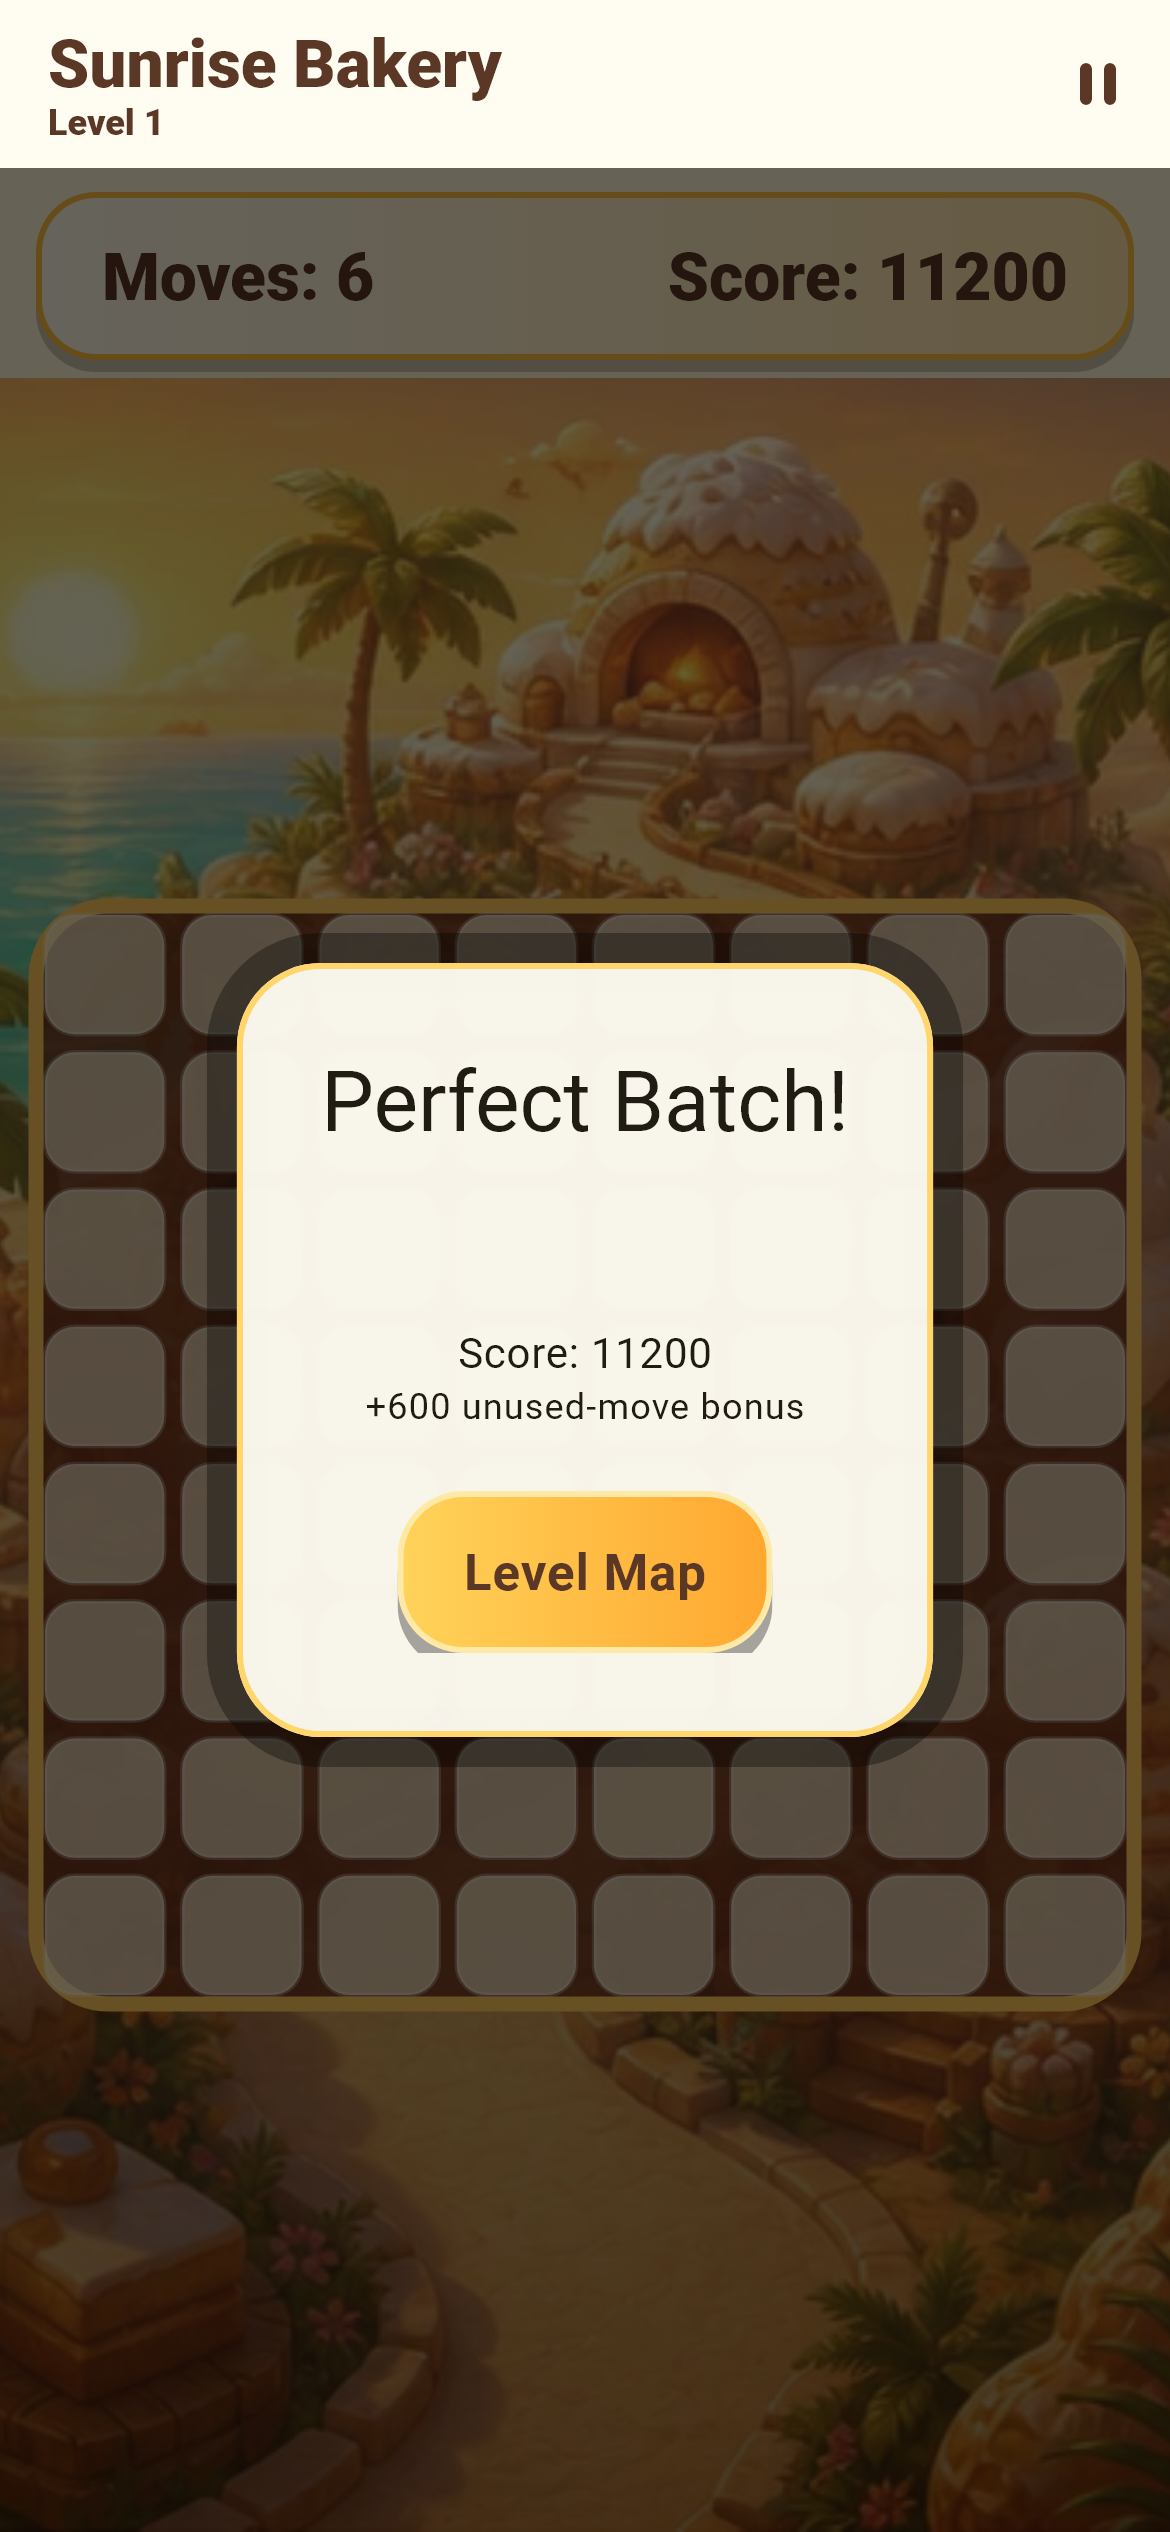
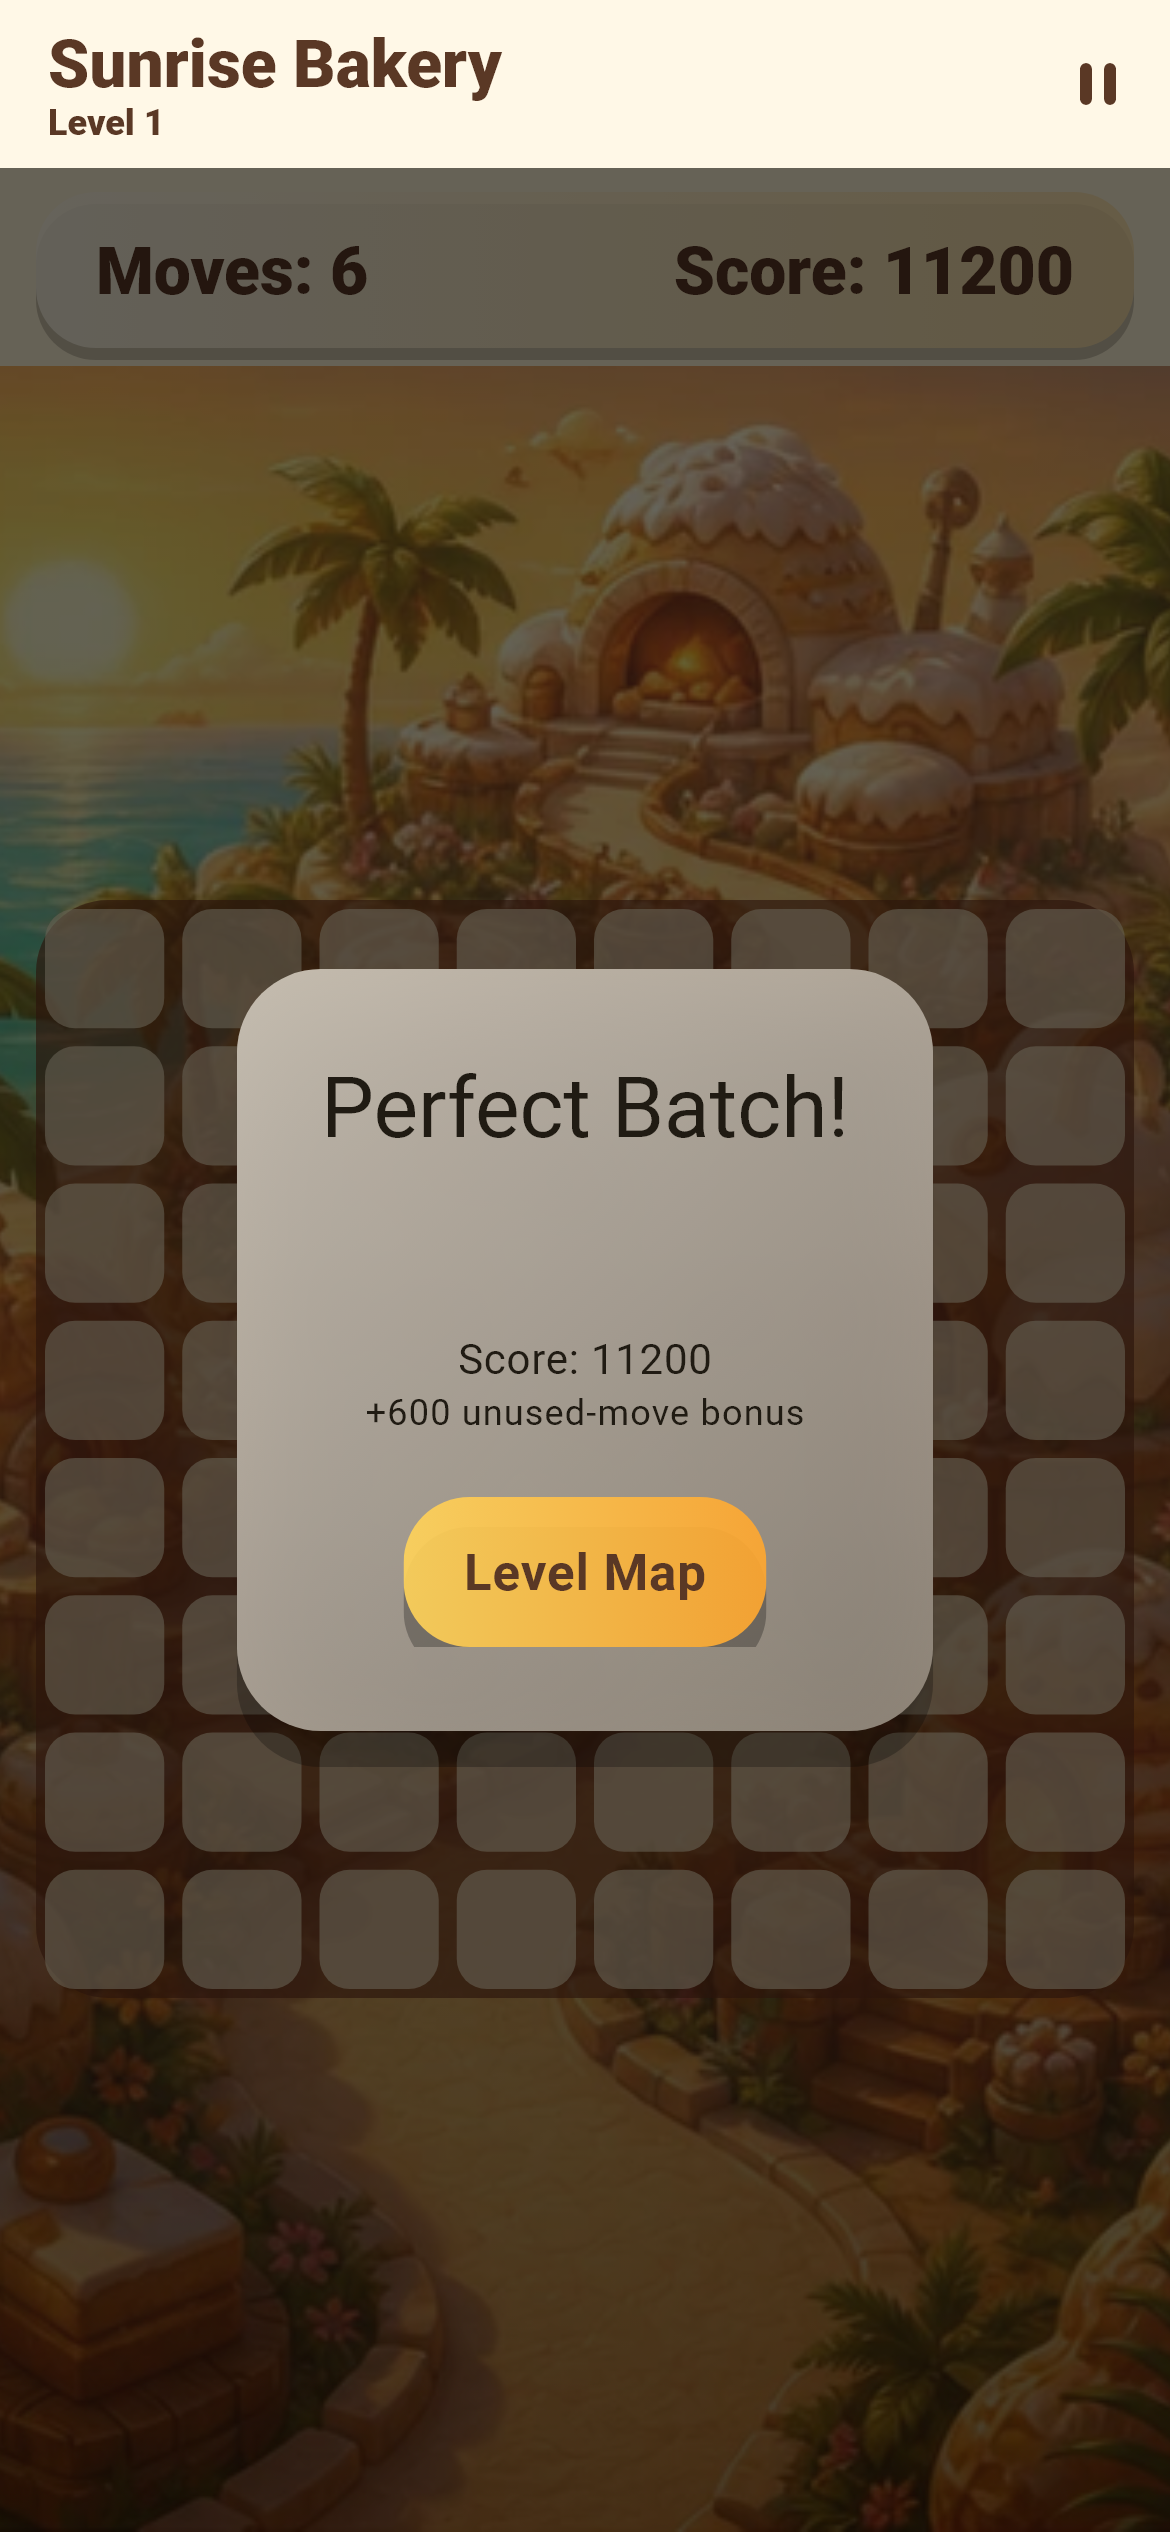
Apply borderless glassmorphism game design

diff --git a/lib/features/gameplay/presentation/gameplay_screen.dart b/lib/features/gameplay/presentation/gameplay_screen.dart
@@ -7,6 +7,7 @@ import '../../../game/domain/level_session.dart';
 import '../../../game/domain/content.dart';
 import '../../../game/presentation/island_match_game.dart';
 import '../../../core/widgets/game_primary_button.dart';
+import '../../../core/widgets/glass_panel.dart';
 import '../../../services/content/bundled_level_repository.dart';
 import '../../../services/content/world_presentation_catalog.dart';
 import '../../../services/audio/game_audio_service.dart';
@@ -230,8 +231,8 @@ class _CascadeBanner extends StatelessWidget {
         duration: const Duration(milliseconds: 220),
         builder: (context, value, child) =>
             Transform.scale(scale: value, child: child),
-        child: Card(
-          color: Theme.of(context).colorScheme.tertiaryContainer,
+        child: GlassPanel(
+          tint: Theme.of(context).colorScheme.tertiaryContainer,
           child: Padding(
             padding: const EdgeInsets.symmetric(horizontal: 22, vertical: 12),
             child: Text(message, style: Theme.of(context).textTheme.titleLarge),
@@ -265,7 +266,7 @@ class _VictoryOverlay extends StatelessWidget {
     return ColoredBox(
       color: const Color(0x99000000),
       child: Center(
-        child: Card(
+        child: GlassPanel(
           child: Padding(
             padding: const EdgeInsets.all(28),
             child: Column(
@@ -323,8 +324,8 @@ class _TutorialBanner extends StatelessWidget {
     right: 20,
     bottom: 18,
     child: IgnorePointer(
-      child: Card(
-        color: Theme.of(context).colorScheme.primaryContainer,
+      child: GlassPanel(
+        tint: Theme.of(context).colorScheme.primaryContainer,
         child: Padding(
           padding: const EdgeInsets.all(14),
           child: Row(
@@ -351,10 +352,9 @@ class _GameHud extends StatelessWidget {
     padding: const EdgeInsets.symmetric(horizontal: 20, vertical: 12),
     decoration: BoxDecoration(
       gradient: const LinearGradient(
-        colors: [Color(0xFFFFF8E6), Color(0xFFFFE2A6)],
+        colors: [Color(0xD9FFF8E6), Color(0xCFFFE2A6)],
       ),
       borderRadius: BorderRadius.circular(20),
-      border: Border.all(color: const Color(0xFFFFBE3F), width: 2),
       boxShadow: const [
         BoxShadow(
           color: Color(0x33000000),
@@ -403,7 +403,7 @@ class _StatusOverlay extends StatelessWidget {
   Widget build(BuildContext context) => ColoredBox(
     color: const Color(0x99000000),
     child: Center(
-      child: Card(
+      child: GlassPanel(
         child: Padding(
           padding: const EdgeInsets.all(28),
           child: Column(

diff --git a/lib/features/home/presentation/home_screen.dart b/lib/features/home/presentation/home_screen.dart
@@ -4,6 +4,7 @@ import 'package:go_router/go_router.dart';
 
 import '../../../core/theme/app_colors.dart';
 import '../../../core/widgets/game_primary_button.dart';
+import '../../../core/widgets/glass_panel.dart';
 import '../../../services/content/world_presentation_catalog.dart';
 
 class HomeScreen extends StatelessWidget {
@@ -45,19 +46,10 @@ class HomeScreen extends StatelessWidget {
                   alignment: const Alignment(0, .28),
                   child: Padding(
                     padding: const EdgeInsets.all(24),
-                    child: Container(
+                    child: GlassPanel(
                       padding: const EdgeInsets.fromLTRB(24, 28, 24, 26),
-                      decoration: BoxDecoration(
-                        color: const Color(0xB33A1C12),
-                        borderRadius: BorderRadius.circular(32),
-                        border: Border.all(
-                          color: const Color(0x99FFE49A),
-                          width: 2,
-                        ),
-                        boxShadow: const [
-                          BoxShadow(color: Colors.black38, blurRadius: 24),
-                        ],
-                      ),
+                      radius: 32,
+                      tint: const Color(0xCC3A1C12),
                       child: Column(
                         mainAxisSize: MainAxisSize.min,
                         children: [
@@ -144,7 +136,6 @@ class _BakeryMark extends StatelessWidget {
         decoration: BoxDecoration(
           color: AppColors.coconut.withValues(alpha: .94),
           shape: BoxShape.circle,
-          border: Border.all(color: AppColors.gold, width: 5),
           boxShadow: const [
             BoxShadow(
               color: Color(0x42000000),

diff --git a/lib/features/level_map/presentation/level_map_screen.dart b/lib/features/level_map/presentation/level_map_screen.dart
@@ -224,10 +224,9 @@ class _WorldRibbon extends StatelessWidget {
     padding: const EdgeInsets.symmetric(horizontal: 20, vertical: 12),
     decoration: BoxDecoration(
       gradient: const LinearGradient(
-        colors: [AppColors.coral, AppColors.caramel],
+        colors: [Color(0xE8F06B55), Color(0xE8D9822B)],
       ),
       borderRadius: BorderRadius.circular(22),
-      border: Border.all(color: const Color(0xFFFFE7A6), width: 3),
       boxShadow: const [BoxShadow(color: Colors.black38, blurRadius: 12)],
     ),
     child: Row(
@@ -289,16 +288,12 @@ class _LevelNode extends StatelessWidget {
               gradient: unlocked
                   ? LinearGradient(
                       colors: current
-                          ? const [Color(0xFFFF745C), Color(0xFFFFA83D)]
-                          : const [Color(0xFFFFD65B), Color(0xFFFFA832)],
+                          ? const [Color(0xE8FF745C), Color(0xE8FFA83D)]
+                          : const [Color(0xD9FFD65B), Color(0xD9FFA832)],
                     )
                   : const LinearGradient(
-                      colors: [Color(0xFF9E948B), Color(0xFF756B64)],
+                      colors: [Color(0xC99E948B), Color(0xC9756B64)],
                     ),
-              border: Border.all(
-                color: current ? Colors.white : const Color(0xFFFFEDB2),
-                width: current ? 4 : 3,
-              ),
               boxShadow: const [
                 BoxShadow(
                   color: Color(0x66000000),

diff --git a/lib/core/widgets/glass_panel.dart b/lib/core/widgets/glass_panel.dart
@@ -1,0 +1,55 @@
+import 'dart:ui';
+
+import 'package:flutter/material.dart';
+
+class GlassPanel extends StatelessWidget {
+  const GlassPanel({
+    super.key,
+    required this.child,
+    this.margin,
+    this.padding,
+    this.radius = 28,
+    this.tint = const Color(0xB8FFF9ED),
+  });
+
+  final Widget child;
+  final EdgeInsetsGeometry? margin;
+  final EdgeInsetsGeometry? padding;
+  final double radius;
+  final Color tint;
+
+  @override
+  Widget build(BuildContext context) => Container(
+    margin: margin,
+    decoration: BoxDecoration(
+      borderRadius: BorderRadius.circular(radius),
+      boxShadow: const [
+        BoxShadow(
+          color: Color(0x40000000),
+          blurRadius: 24,
+          offset: Offset(0, 12),
+        ),
+      ],
+    ),
+    child: ClipRRect(
+      borderRadius: BorderRadius.circular(radius),
+      child: BackdropFilter(
+        filter: ImageFilter.blur(sigmaX: 18, sigmaY: 18),
+        child: Container(
+          padding: padding,
+          decoration: BoxDecoration(
+            gradient: LinearGradient(
+              begin: Alignment.topLeft,
+              end: Alignment.bottomRight,
+              colors: [
+                tint.withValues(alpha: .68),
+                tint.withValues(alpha: .40),
+              ],
+            ),
+          ),
+          child: child,
+        ),
+      ),
+    ),
+  );
+}

diff --git a/lib/core/theme/app_theme.dart b/lib/core/theme/app_theme.dart
@@ -19,7 +19,7 @@ abstract final class AppTheme {
       useMaterial3: true,
       appBarTheme: const AppBarTheme(
         centerTitle: false,
-        backgroundColor: AppColors.coconut,
+        backgroundColor: Color(0xB8FFF9ED),
         foregroundColor: AppColors.cocoa,
         elevation: 0,
         titleTextStyle: TextStyle(
@@ -30,16 +30,13 @@ abstract final class AppTheme {
         ),
       ),
       cardTheme: CardThemeData(
-        color: AppColors.coconut.withValues(alpha: .96),
-        elevation: 10,
+        color: AppColors.coconut.withValues(alpha: .72),
+        elevation: 0,
         shadowColor: const Color(0x55000000),
-        shape: RoundedRectangleBorder(
-          borderRadius: BorderRadius.circular(28),
-          side: const BorderSide(color: Color(0xFFFFD66B), width: 2),
-        ),
+        shape: RoundedRectangleBorder(borderRadius: BorderRadius.circular(28)),
       ),
       dialogTheme: DialogThemeData(
-        backgroundColor: AppColors.coconut,
+        backgroundColor: const Color(0xE6FFF9ED),
         elevation: 16,
         shape: RoundedRectangleBorder(borderRadius: BorderRadius.circular(28)),
       ),

diff --git a/lib/features/level_map/presentation/pre_level_screen.dart b/lib/features/level_map/presentation/pre_level_screen.dart
@@ -4,6 +4,7 @@ import 'package:go_router/go_router.dart';
 import '../../../game/domain/content.dart';
 import '../../../core/theme/app_colors.dart';
 import '../../../core/widgets/game_primary_button.dart';
+import '../../../core/widgets/glass_panel.dart';
 import '../../../services/content/bundled_level_repository.dart';
 import '../../../services/content/world_presentation_catalog.dart';
 
@@ -47,7 +48,7 @@ class PreLevelScreen extends StatelessWidget {
                     ),
                   ),
                   Center(
-                    child: Card(
+                    child: GlassPanel(
                       margin: const EdgeInsets.all(22),
                       child: Padding(
                         padding: const EdgeInsets.fromLTRB(24, 24, 24, 26),
@@ -166,7 +167,7 @@ class _InfoPill extends StatelessWidget {
     decoration: BoxDecoration(
       color: const Color(0xFFFFE5A6),
       borderRadius: BorderRadius.circular(99),
-      border: Border.all(color: const Color(0xFFFFC34E)),
+      boxShadow: const [BoxShadow(color: Color(0x22000000), blurRadius: 10)],
     ),
     child: Row(
       mainAxisSize: MainAxisSize.min,

diff --git a/lib/game/presentation/board_component.dart b/lib/game/presentation/board_component.dart
@@ -41,28 +41,14 @@ class BoardComponent extends PositionComponent
       Rect.fromLTWH(0, 0, size.x, size.y),
       const Radius.circular(24),
     );
-    canvas.drawRRect(tray, Paint()..color = const Color(0xD66B321B));
-    canvas.drawRRect(
-      tray,
-      Paint()
-        ..color = const Color(0xFFFFC85A)
-        ..style = PaintingStyle.stroke
-        ..strokeWidth = 5,
-    );
+    canvas.drawRRect(tray, Paint()..color = const Color(0xA66B321B));
     for (var row = 0; row < _board.rows; row++) {
       for (var column = 0; column < _board.columns; column++) {
         final rect = RRect.fromRectAndRadius(
           Rect.fromLTWH(column * cell + 3, row * cell + 3, cell - 6, cell - 6),
           Radius.circular(cell * .22),
         );
-        canvas.drawRRect(rect, Paint()..color = const Color(0xB8FFF2D0));
-        canvas.drawRRect(
-          rect,
-          Paint()
-            ..color = const Color(0x44FFFFFF)
-            ..style = PaintingStyle.stroke
-            ..strokeWidth = 1.5,
-        );
+        canvas.drawRRect(rect, Paint()..color = const Color(0x99FFF2D0));
       }
     }
   }

diff --git a/lib/features/settings/presentation/settings_screen.dart b/lib/features/settings/presentation/settings_screen.dart
@@ -1,6 +1,7 @@
 import 'package:flutter/material.dart';
 import 'package:flutter_riverpod/flutter_riverpod.dart';
 
+import '../../../core/widgets/glass_panel.dart';
 import '../../progress/application/progress_controller.dart';
 
 class SettingsScreen extends ConsumerWidget {
@@ -17,7 +18,7 @@ class SettingsScreen extends ConsumerWidget {
         children: [
           Text('Experience', style: Theme.of(context).textTheme.titleLarge),
           const SizedBox(height: 10),
-          Card(
+          GlassPanel(
             margin: EdgeInsets.zero,
             child: Column(
               children: [
@@ -63,7 +64,7 @@ class SettingsScreen extends ConsumerWidget {
           const SizedBox(height: 24),
           Text('Save data', style: Theme.of(context).textTheme.titleLarge),
           const SizedBox(height: 10),
-          Card(
+          GlassPanel(
             margin: EdgeInsets.zero,
             child: ListTile(
               contentPadding: const EdgeInsets.symmetric(

diff --git a/lib/core/widgets/game_primary_button.dart b/lib/core/widgets/game_primary_button.dart
@@ -36,15 +36,14 @@ class GamePrimaryButton extends StatelessWidget {
             ),
             decoration: BoxDecoration(
               gradient: const LinearGradient(
-                colors: [Color(0xFFFFD35A), Color(0xFFFFA72F)],
+                colors: [Color(0xE8FFD35A), Color(0xE8FFA72F)],
               ),
               borderRadius: BorderRadius.circular(22),
-              border: Border.all(color: const Color(0xFFFFE9A6), width: 2),
               boxShadow: const [
                 BoxShadow(
-                  color: Color(0x55000000),
-                  blurRadius: 12,
-                  offset: Offset(0, 6),
+                  color: Color(0x44000000),
+                  blurRadius: 20,
+                  offset: Offset(0, 10),
                 ),
               ],
             ),

diff --git a/lib/game/presentation/piece_component.dart b/lib/game/presentation/piece_component.dart
@@ -120,16 +120,6 @@ class PieceComponent extends PositionComponent {
           ..color = _fallbackColors[piece.kind.id] ?? const Color(0xFFE968A8),
       );
     }
-    if (isSelected) {
-      canvas.drawCircle(
-        center,
-        radius + 3,
-        Paint()
-          ..color = const Color(0xFFFFD65A)
-          ..style = PaintingStyle.stroke
-          ..strokeWidth = 4,
-      );
-    }
   }
 
   String _spritePath() => switch (piece.specialKind) {

diff --git a/tool/capture_screenshots_test.dart b/tool/capture_screenshots_test.dart
@@ -30,6 +30,10 @@ void main() {
 
     await tester.pumpWidget(const ProviderScope(child: PuffAndCrunchApp()));
     await tester.pumpAndSettle();
+    await tester.runAsync(
+      () => Future<void>.delayed(const Duration(seconds: 1)),
+    );
+    await tester.pump();
     await expectLater(
       find.byType(MaterialApp),
       matchesGoldenFile('../docs/screenshots/01-home.png'),

diff --git a/PROGRESS.md b/PROGRESS.md
@@ -114,6 +114,8 @@ Current phase: Phase 13 (completed)
 - Added scroll-linked parallax, a seamless 14-second cinemagraph drift, floating ambient lights, and per-world landmark icons
 - Kept world presentation catalog-driven and disabled ambient movement when Reduced Motion is enabled
 - Phase 13 verification completed
+- Applied a reusable glassmorphism system across home, settings, pre-level, HUD, tutorials, cascades, result overlays, dialogs, map ribbons, nodes, and primary actions
+- Removed heavy border outlines from cards, buttons, map nodes, recipe pills, gameplay tray cells, and piece selection while preserving clear depth through blur, translucency, gradients, and soft shadows
 
 ## In Progress
 
@@ -133,8 +135,8 @@ Current phase: Phase 13 (completed)
 - `flutter build apk --debug`: passed (`build/app/outputs/flutter-apk/app-debug.apk`, 157,010,839 bytes)
[1 lines of base64/hex data omitted]
 - `flutter build web --release`: passed (`build/web`, `main.dart.js` 2,961,872 bytes)
-- `flutter build apk --release`: passed (`build/app/outputs/flutter-apk/app-release.apk`, 67,294,897 bytes)
[1 lines of base64/hex data omitted]
+- `flutter build apk --release`: passed (`build/app/outputs/flutter-apk/app-release.apk`, 67,262,129 bytes)
[1 lines of base64/hex data omitted]
 - Production asset catalog: 207 files, including 26 WAV, 21 PNG, 6 WebP, and 121 JSON files
 - Unresolved TODO audit: no project-owned TODOs; only Flutter-generated Linux/Windows runner comments remain
 
